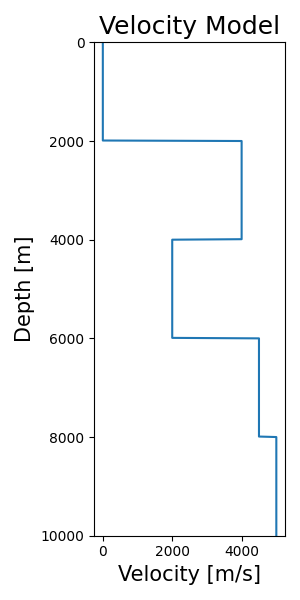
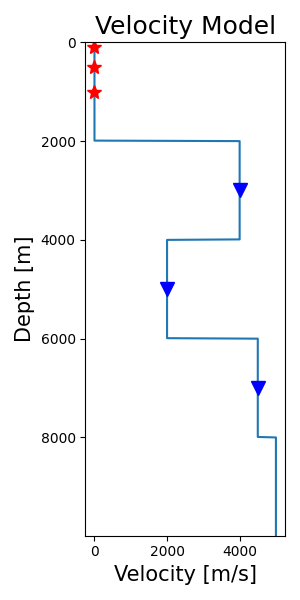
Geometria de aquisição

Changed region(s): [[0.12, 0.0, 0.93, 0.93], [0.54, 0.24, 0.93, 0.9], [0.39, 0.9, 0.87, 0.99]]

diff --git a/modeling/scalar.py b/modeling/scalar.py
@@ -13,13 +13,16 @@ class Wavefield_1D():
         self.dt = 1e-3
         self.fmax = 30.0
         
-        self.nz = 1001
+        self.nz = 1000
         self.dz = 10
         self.model = np.zeros(self.nz)
         self.depth = np.arange(self.nz) * self.dz
         
         self.prof = np.array([2000, 4000, 6000, 8000, 10010])
         self.velocities = np.array((1500, 4000, 2000, 4500, 5000))
+        
+        self.fonte = np.array([100, 500, 1000])
+        self.receptor = np.array([3000, 5000, 7000])
         
     def set_model(self):
         interfaces = []
@@ -38,12 +41,15 @@ class Wavefield_1D():
     def plot_model(self):
         fig, ax = plt.subplots(figsize=(3, 6), clear=True)
         ax.plot(self.model, self.depth)
+        ax.plot(self.model[self.fonte//self.dz], self.fonte,  '*', color='red', label='Fonte', markersize = 10)
+        ax.plot(self.model[self.receptor//self.dz], self.receptor,   'v' , color='blue', label='Receptor', markersize = 10)
         ax.set_title("Velocity Model", fontsize=18)
         ax.set_xlabel("Velocity [m/s]", fontsize=15)
         ax.set_ylabel("Depth [m]", fontsize=15) 
         ax.set_ylim(max(self.depth), min(self.depth))
-
+        
         fig.tight_layout()
+        fig.savefig('VelocityModel.png')
         plt.show()   
                
     def get_type(self):
